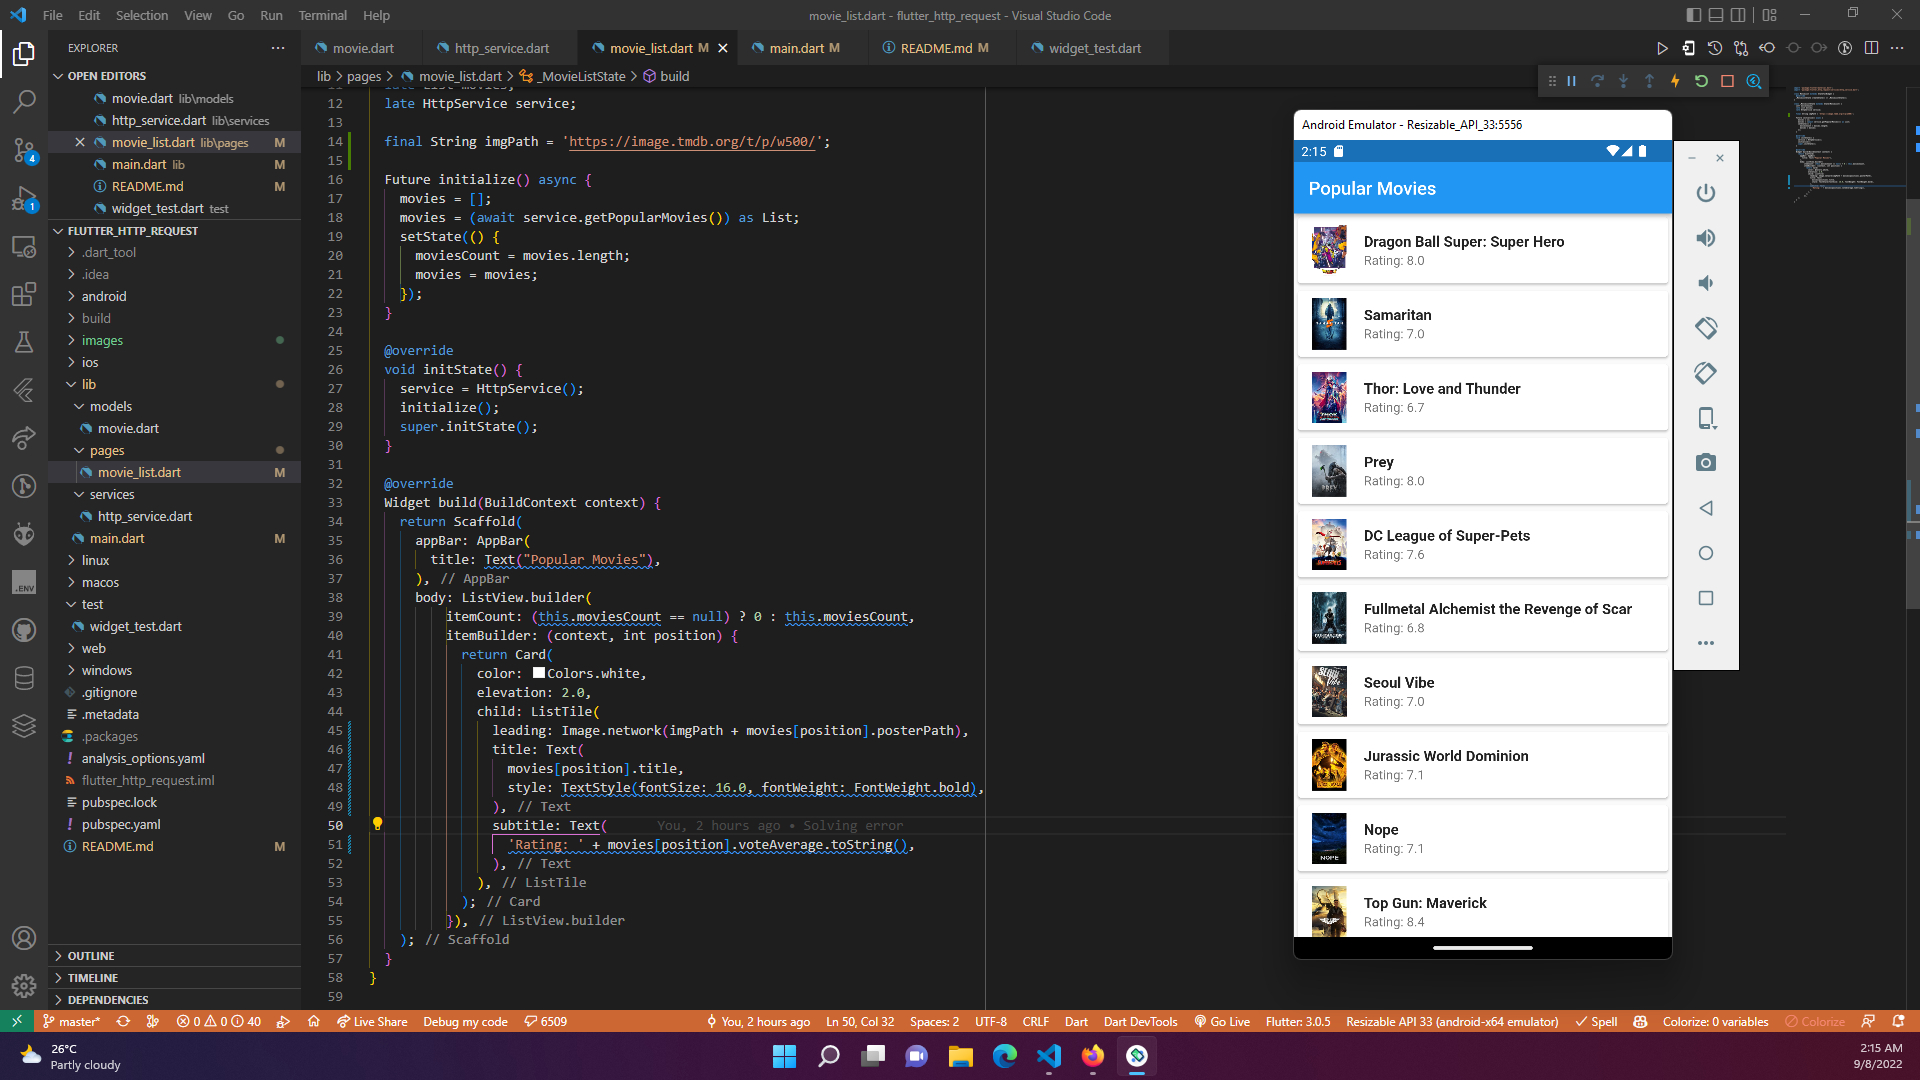
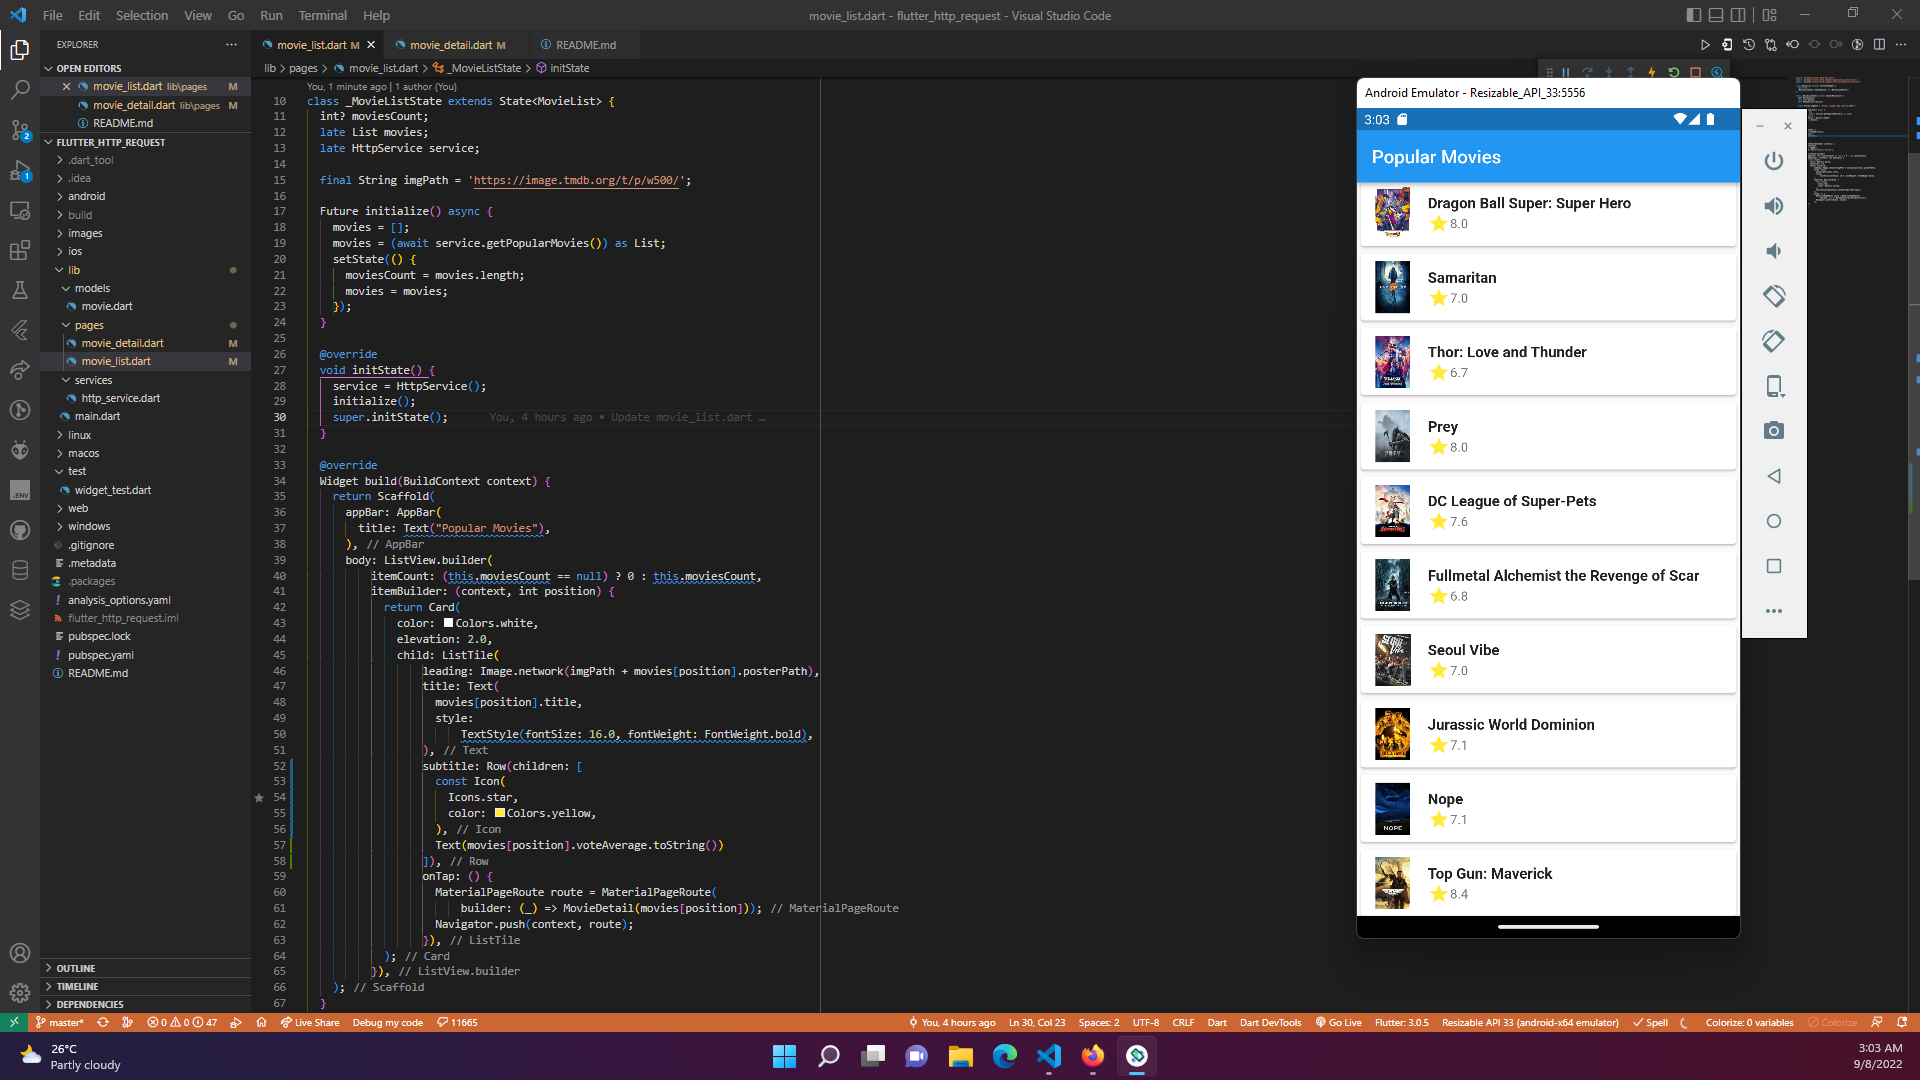
Update laporan

diff --git a/README.md b/README.md
@@ -20,3 +20,7 @@ Detail Movie
 
 ![Detail Movie](./images/03.png)
 
+Challenge Memodifikasi Tampilan Lebih Menarik
+
+![Detail Movie Modifikasi](./images/04.png)
+
